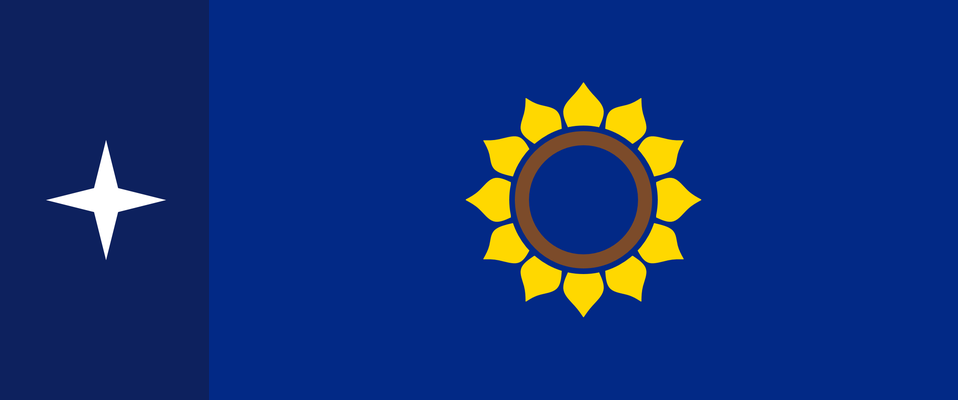
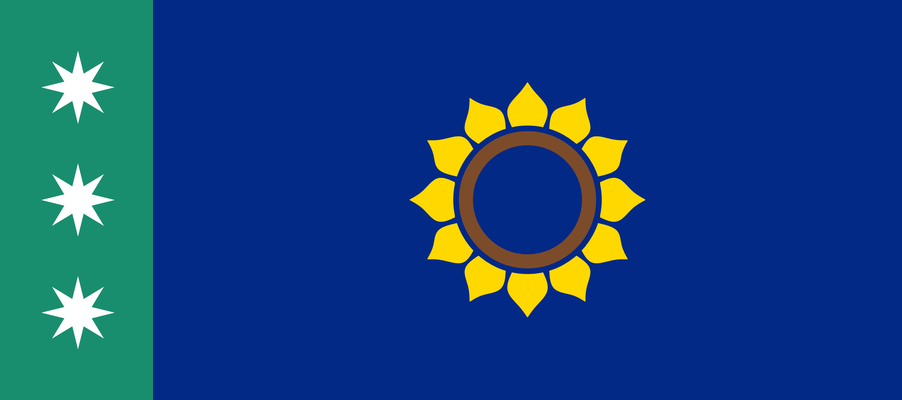
Haedus Territory flag from Lewis; Talandra in the Binami Sector with a green hoist
Claude-Session: https://claude.ai/code/session_013BXvLmatBFsdNgC7oaeize

Changed region(s): [[0.0, 0.0, 0.2173, 1.0], [0.4346, 0.21, 0.745, 0.78]]

diff --git a/atlas/build_data.py b/atlas/build_data.py
@@ -135,6 +135,7 @@ SHEET_SECTOR['zarqon'] = 'Geronth Sector'
 SHEET_SECTOR['trab'] = 'Binami Sector'
 SHEET_SECTOR['esmyke'] = 'Saolea Sector'
 SHEET_SECTOR['golba'] = 'Saolea Sector'
+SHEET_SECTOR['talandra'] = 'Binami Sector'   # book 8.3: the Binami sector runs through Talandra
 
 # Systems on the sheet but not on the 2235 map get invented positions inside their sector,
 # at the emptiest spot among its other members.
